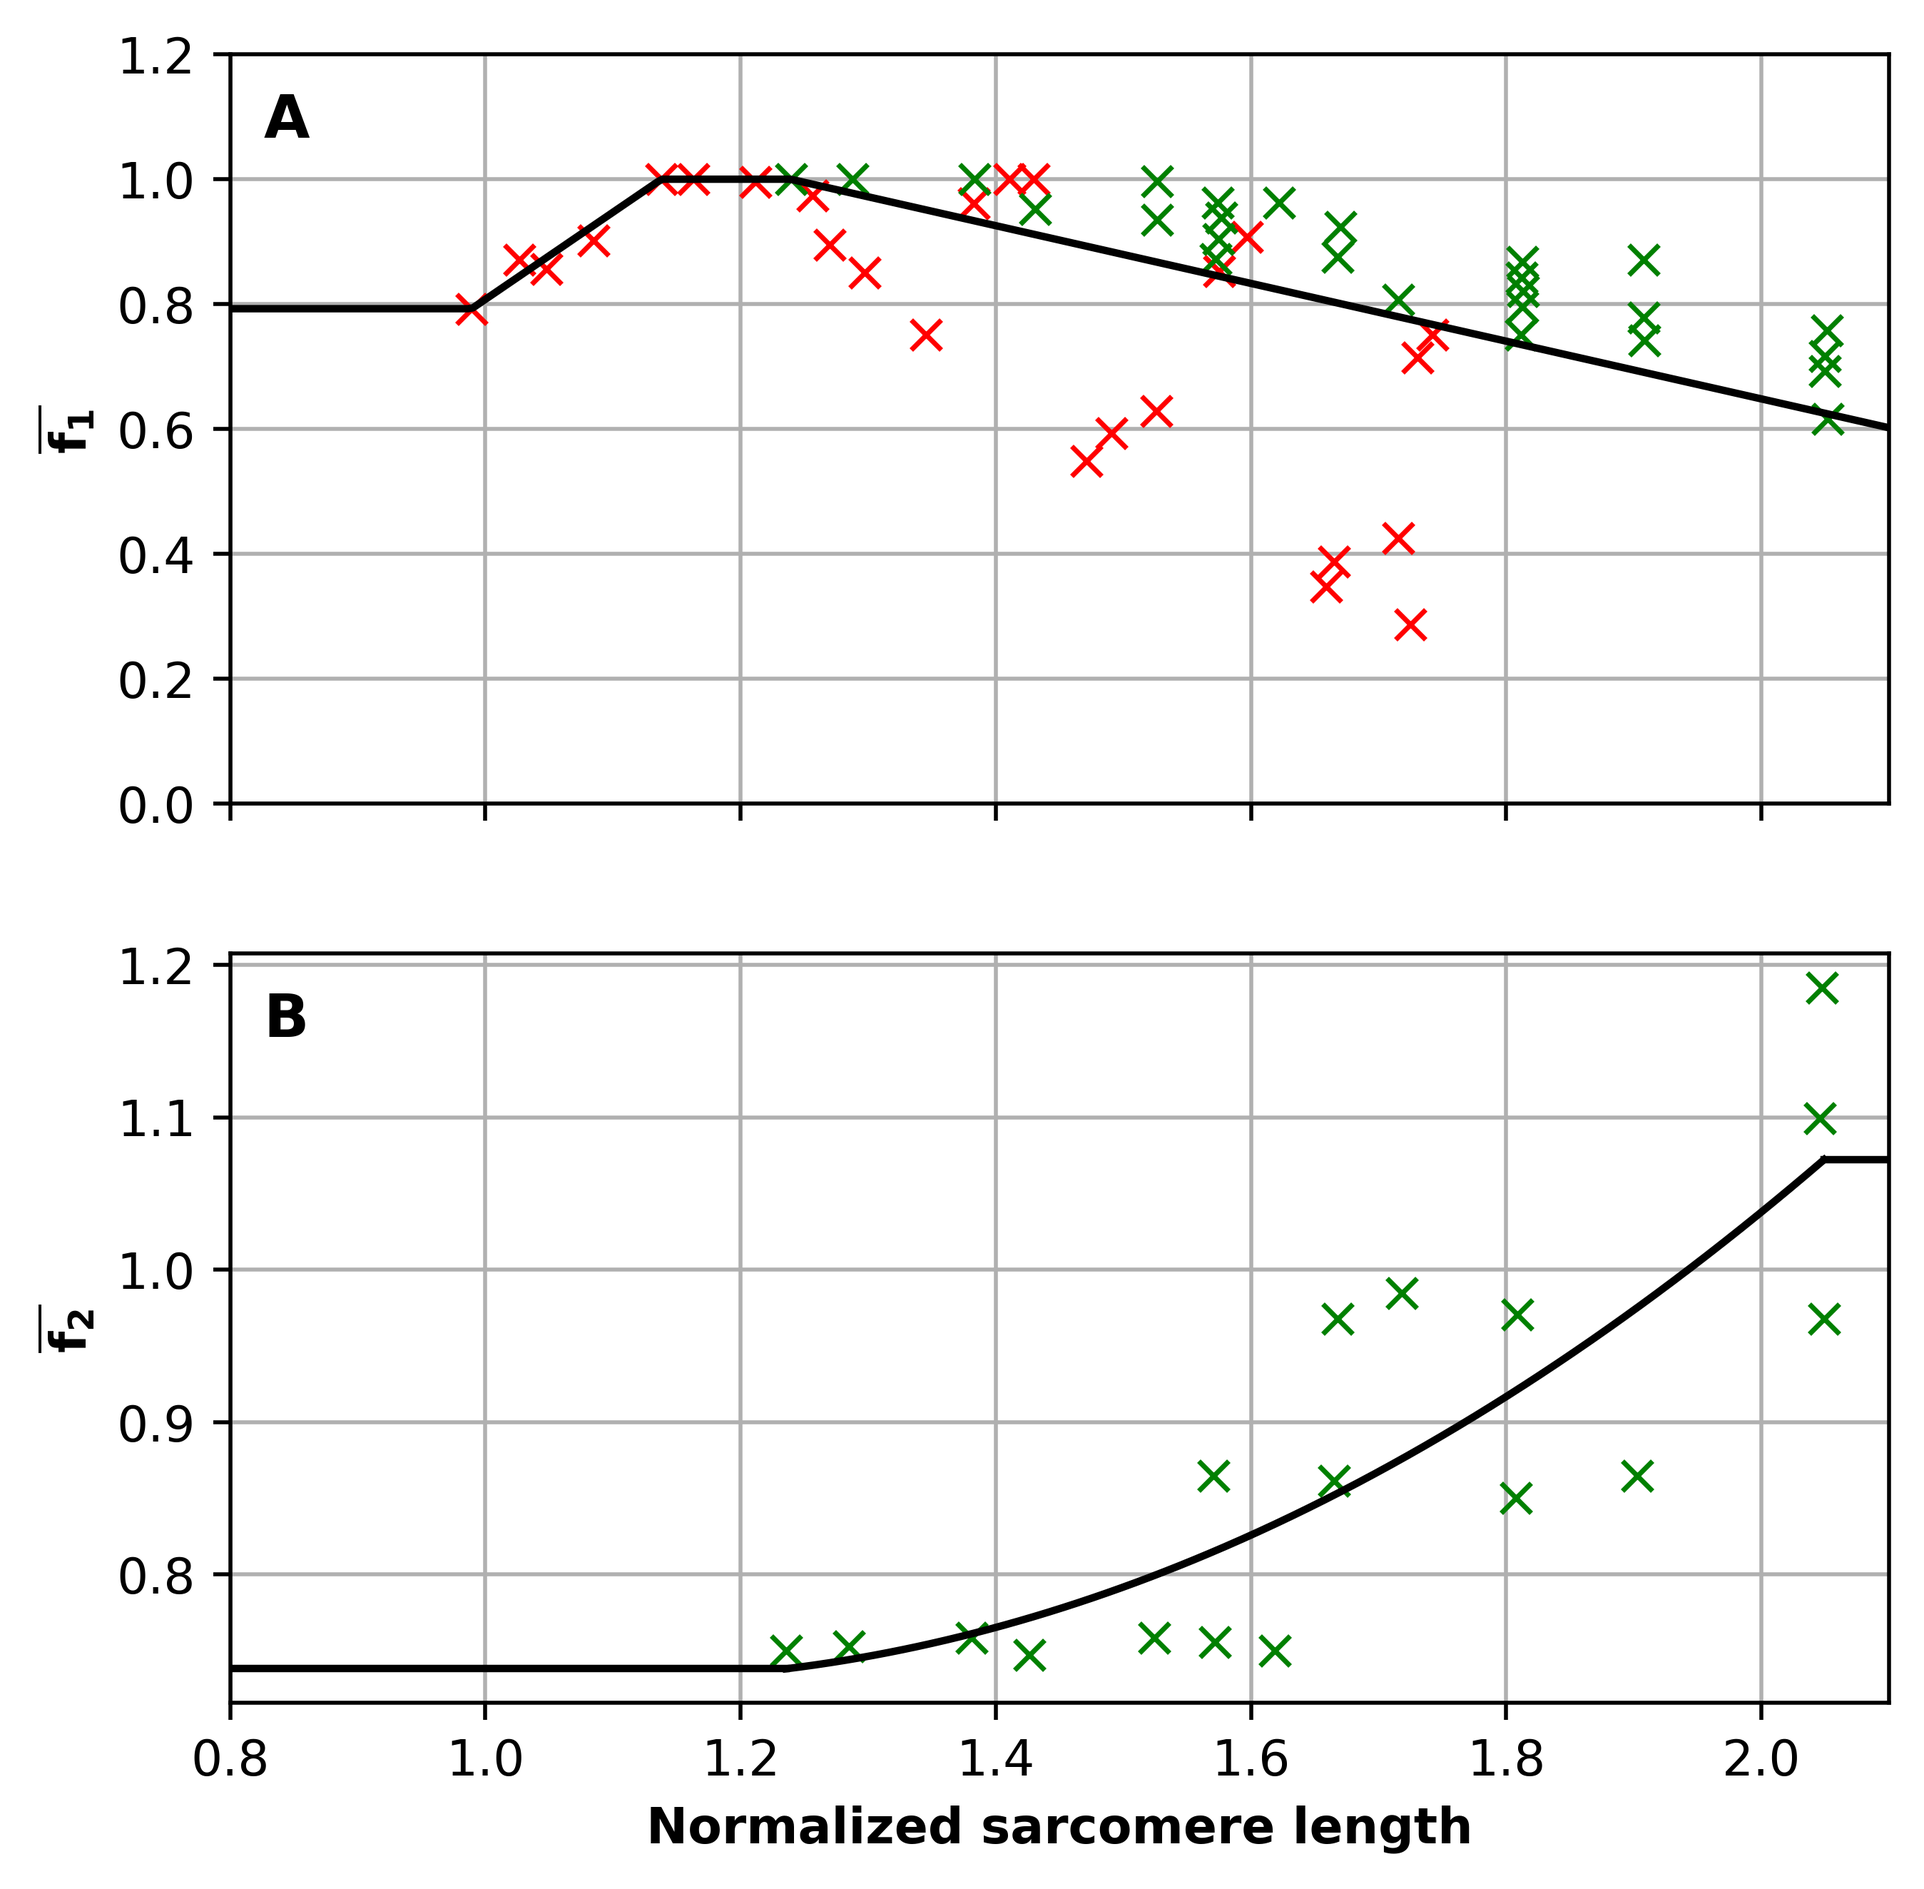
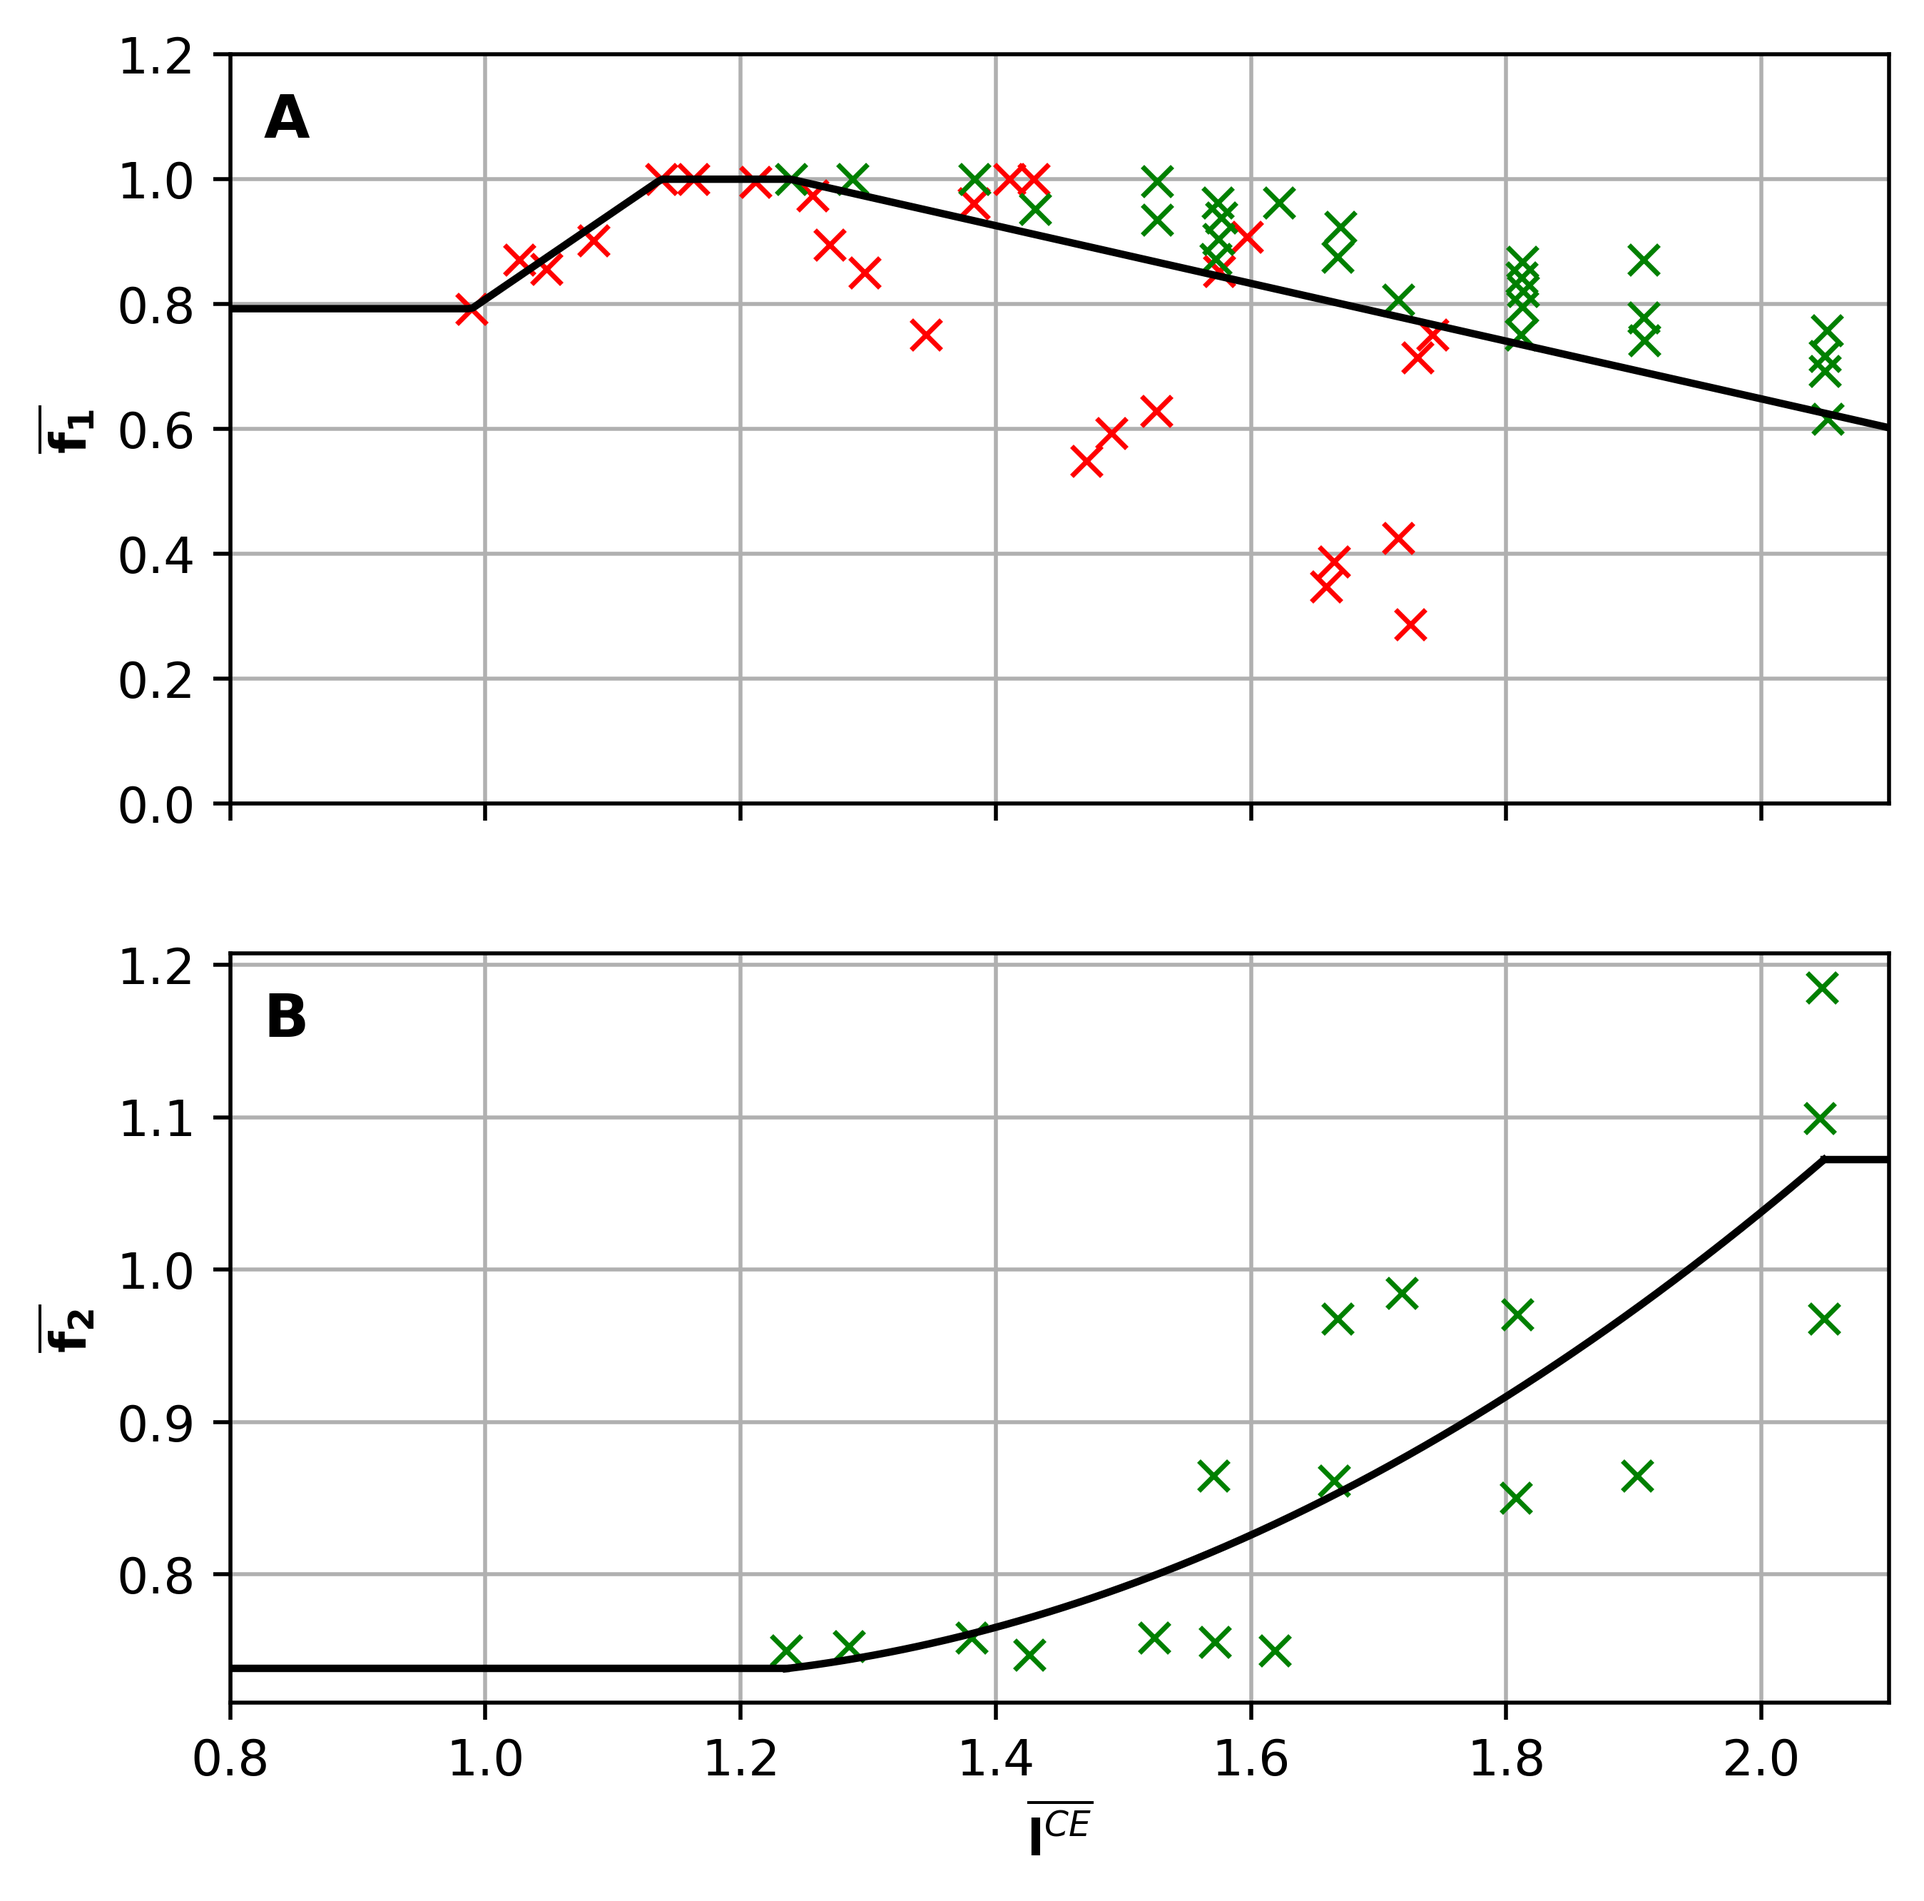
Updated figures

diff --git a/plot_relationships.py b/plot_relationships.py
@@ -359,7 +359,7 @@ axes[1].plot(l_smttp, Ca_smttp, 'k', label='Fit')
 axes[1].plot(l_left, left_smttp, 'k')
 axes[1].plot(l_right, right_smttp, 'k')
 axes[1].set_xlim([0.8, 2.1])
-axes[1].set_xlabel('Normalized sarcomere length', fontweight='bold')
+axes[1].set_xlabel(r'$\overline{\mathbf{l}^{CE}}$')
 axes[1].set_ylabel(r'$\overline{\mathbf{f_2}}$')
 axes[1].grid()
 
